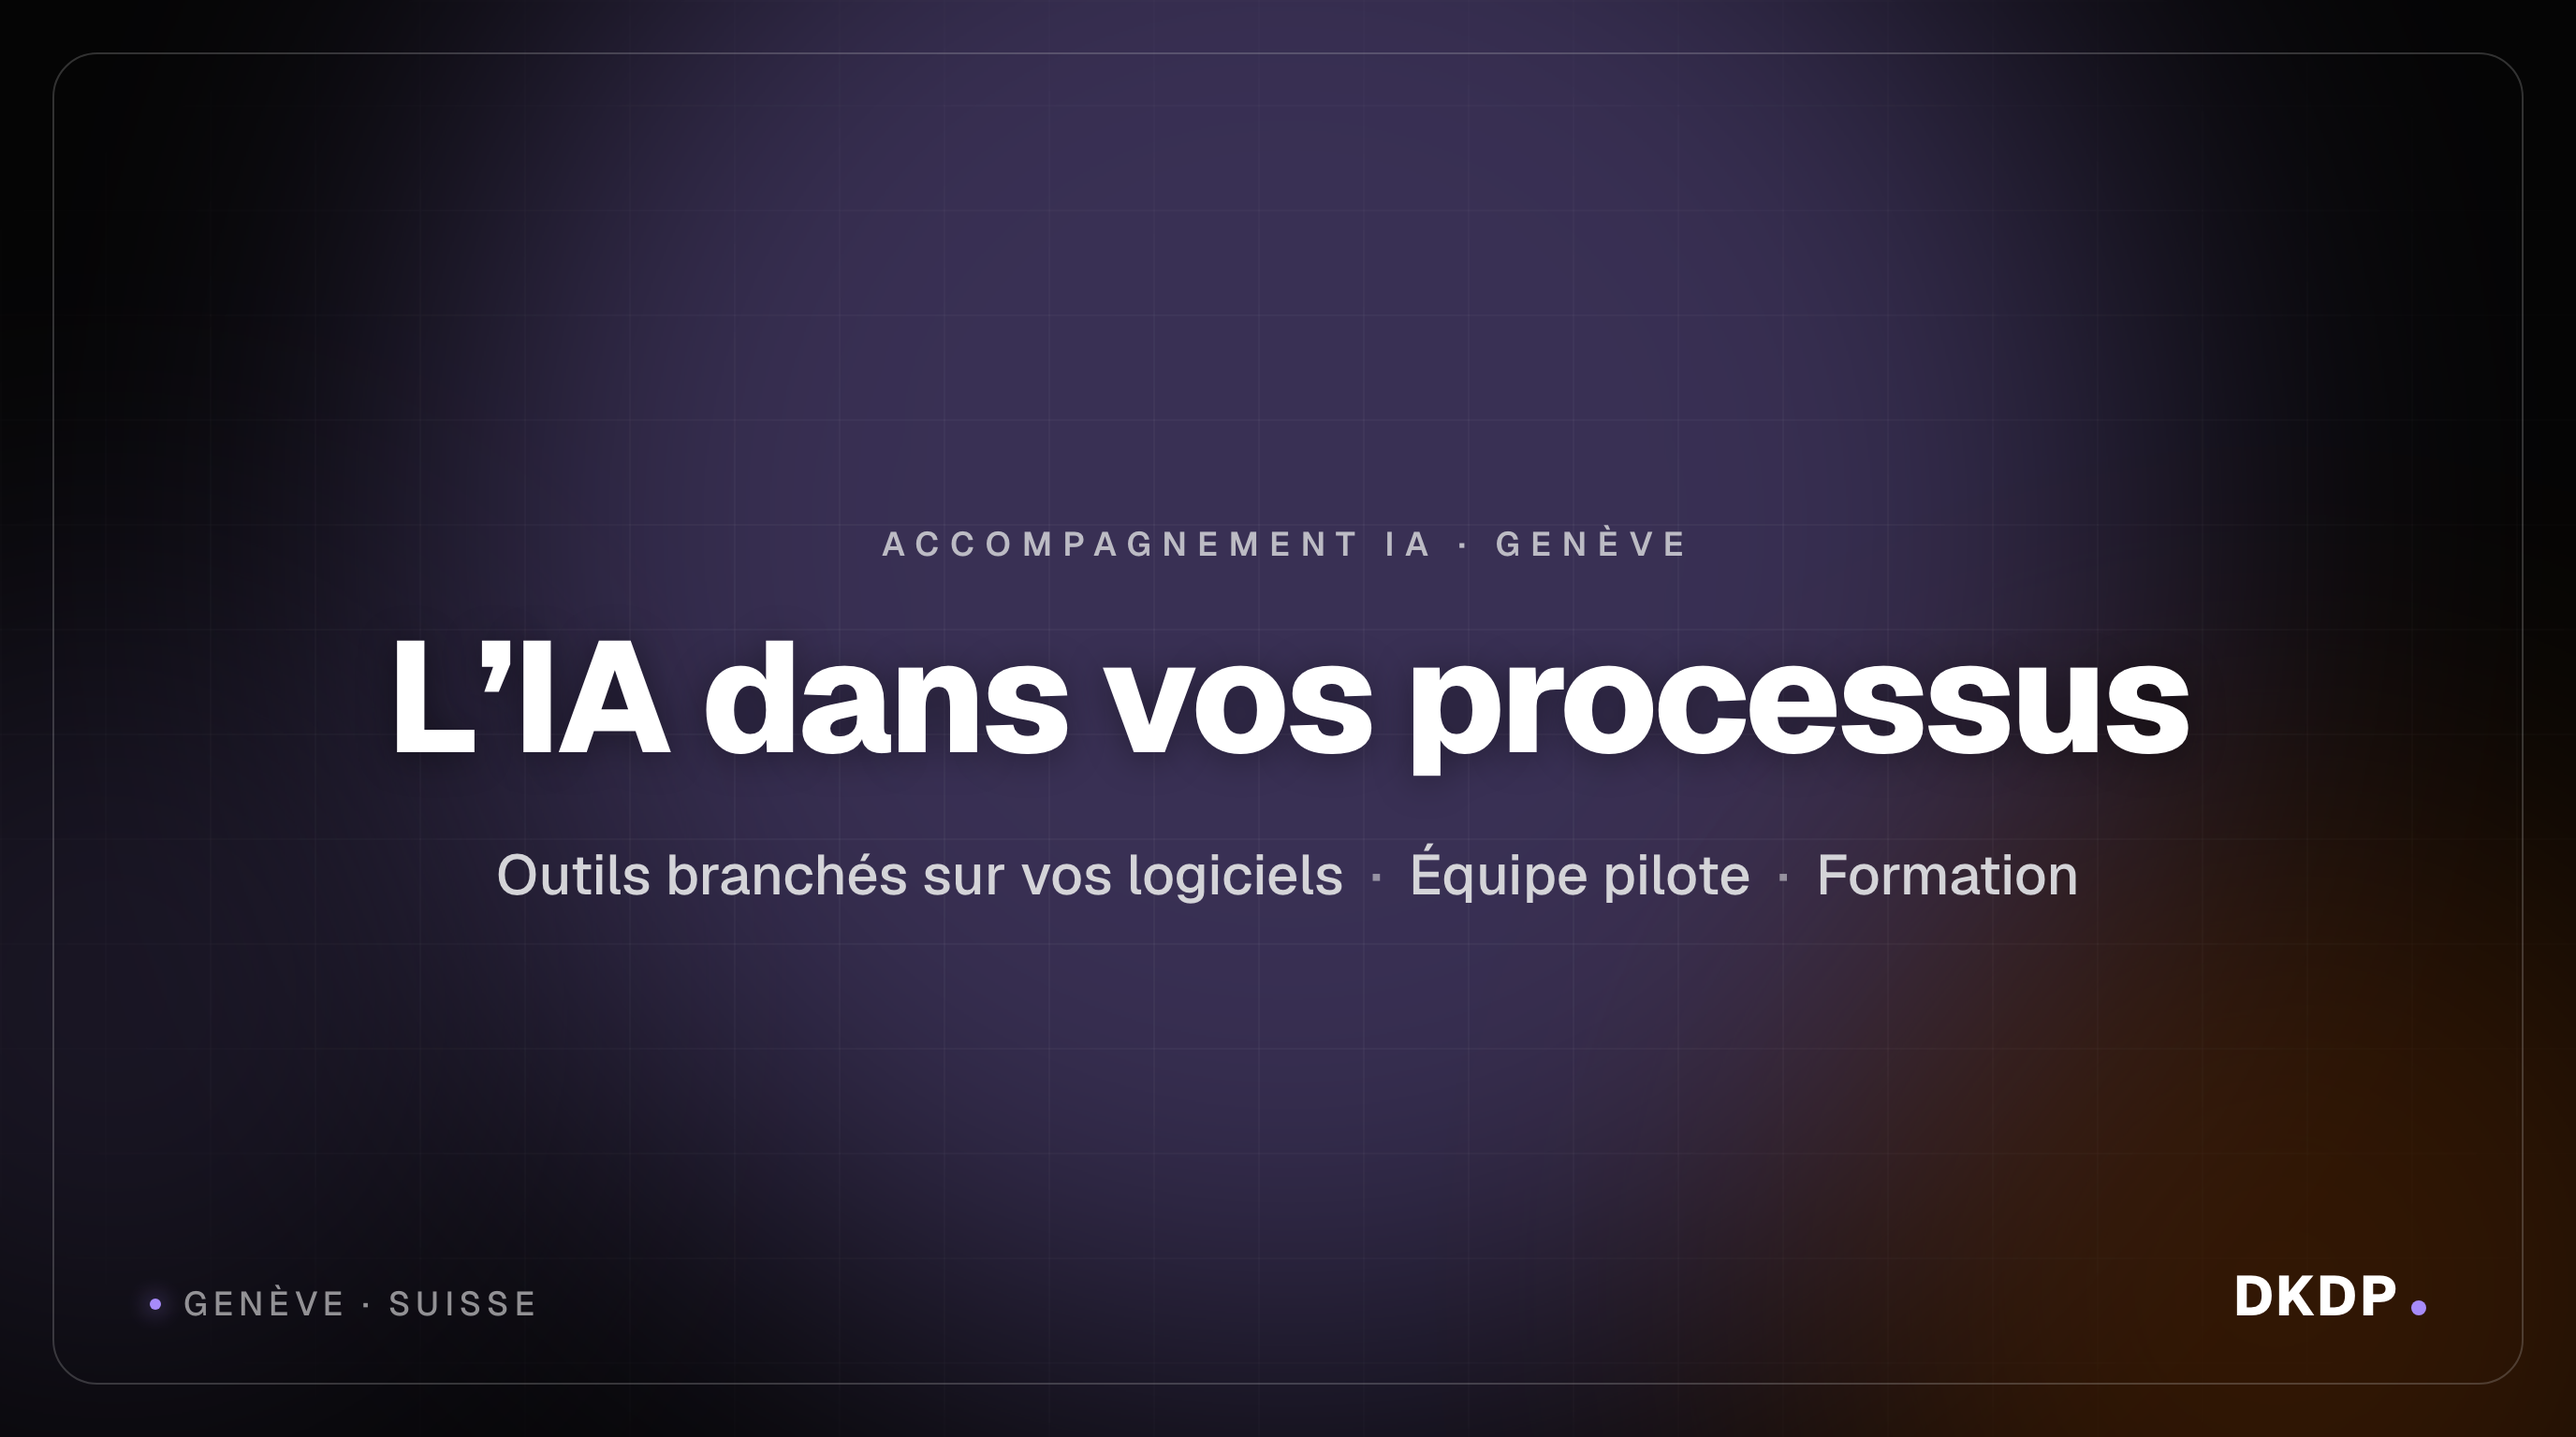
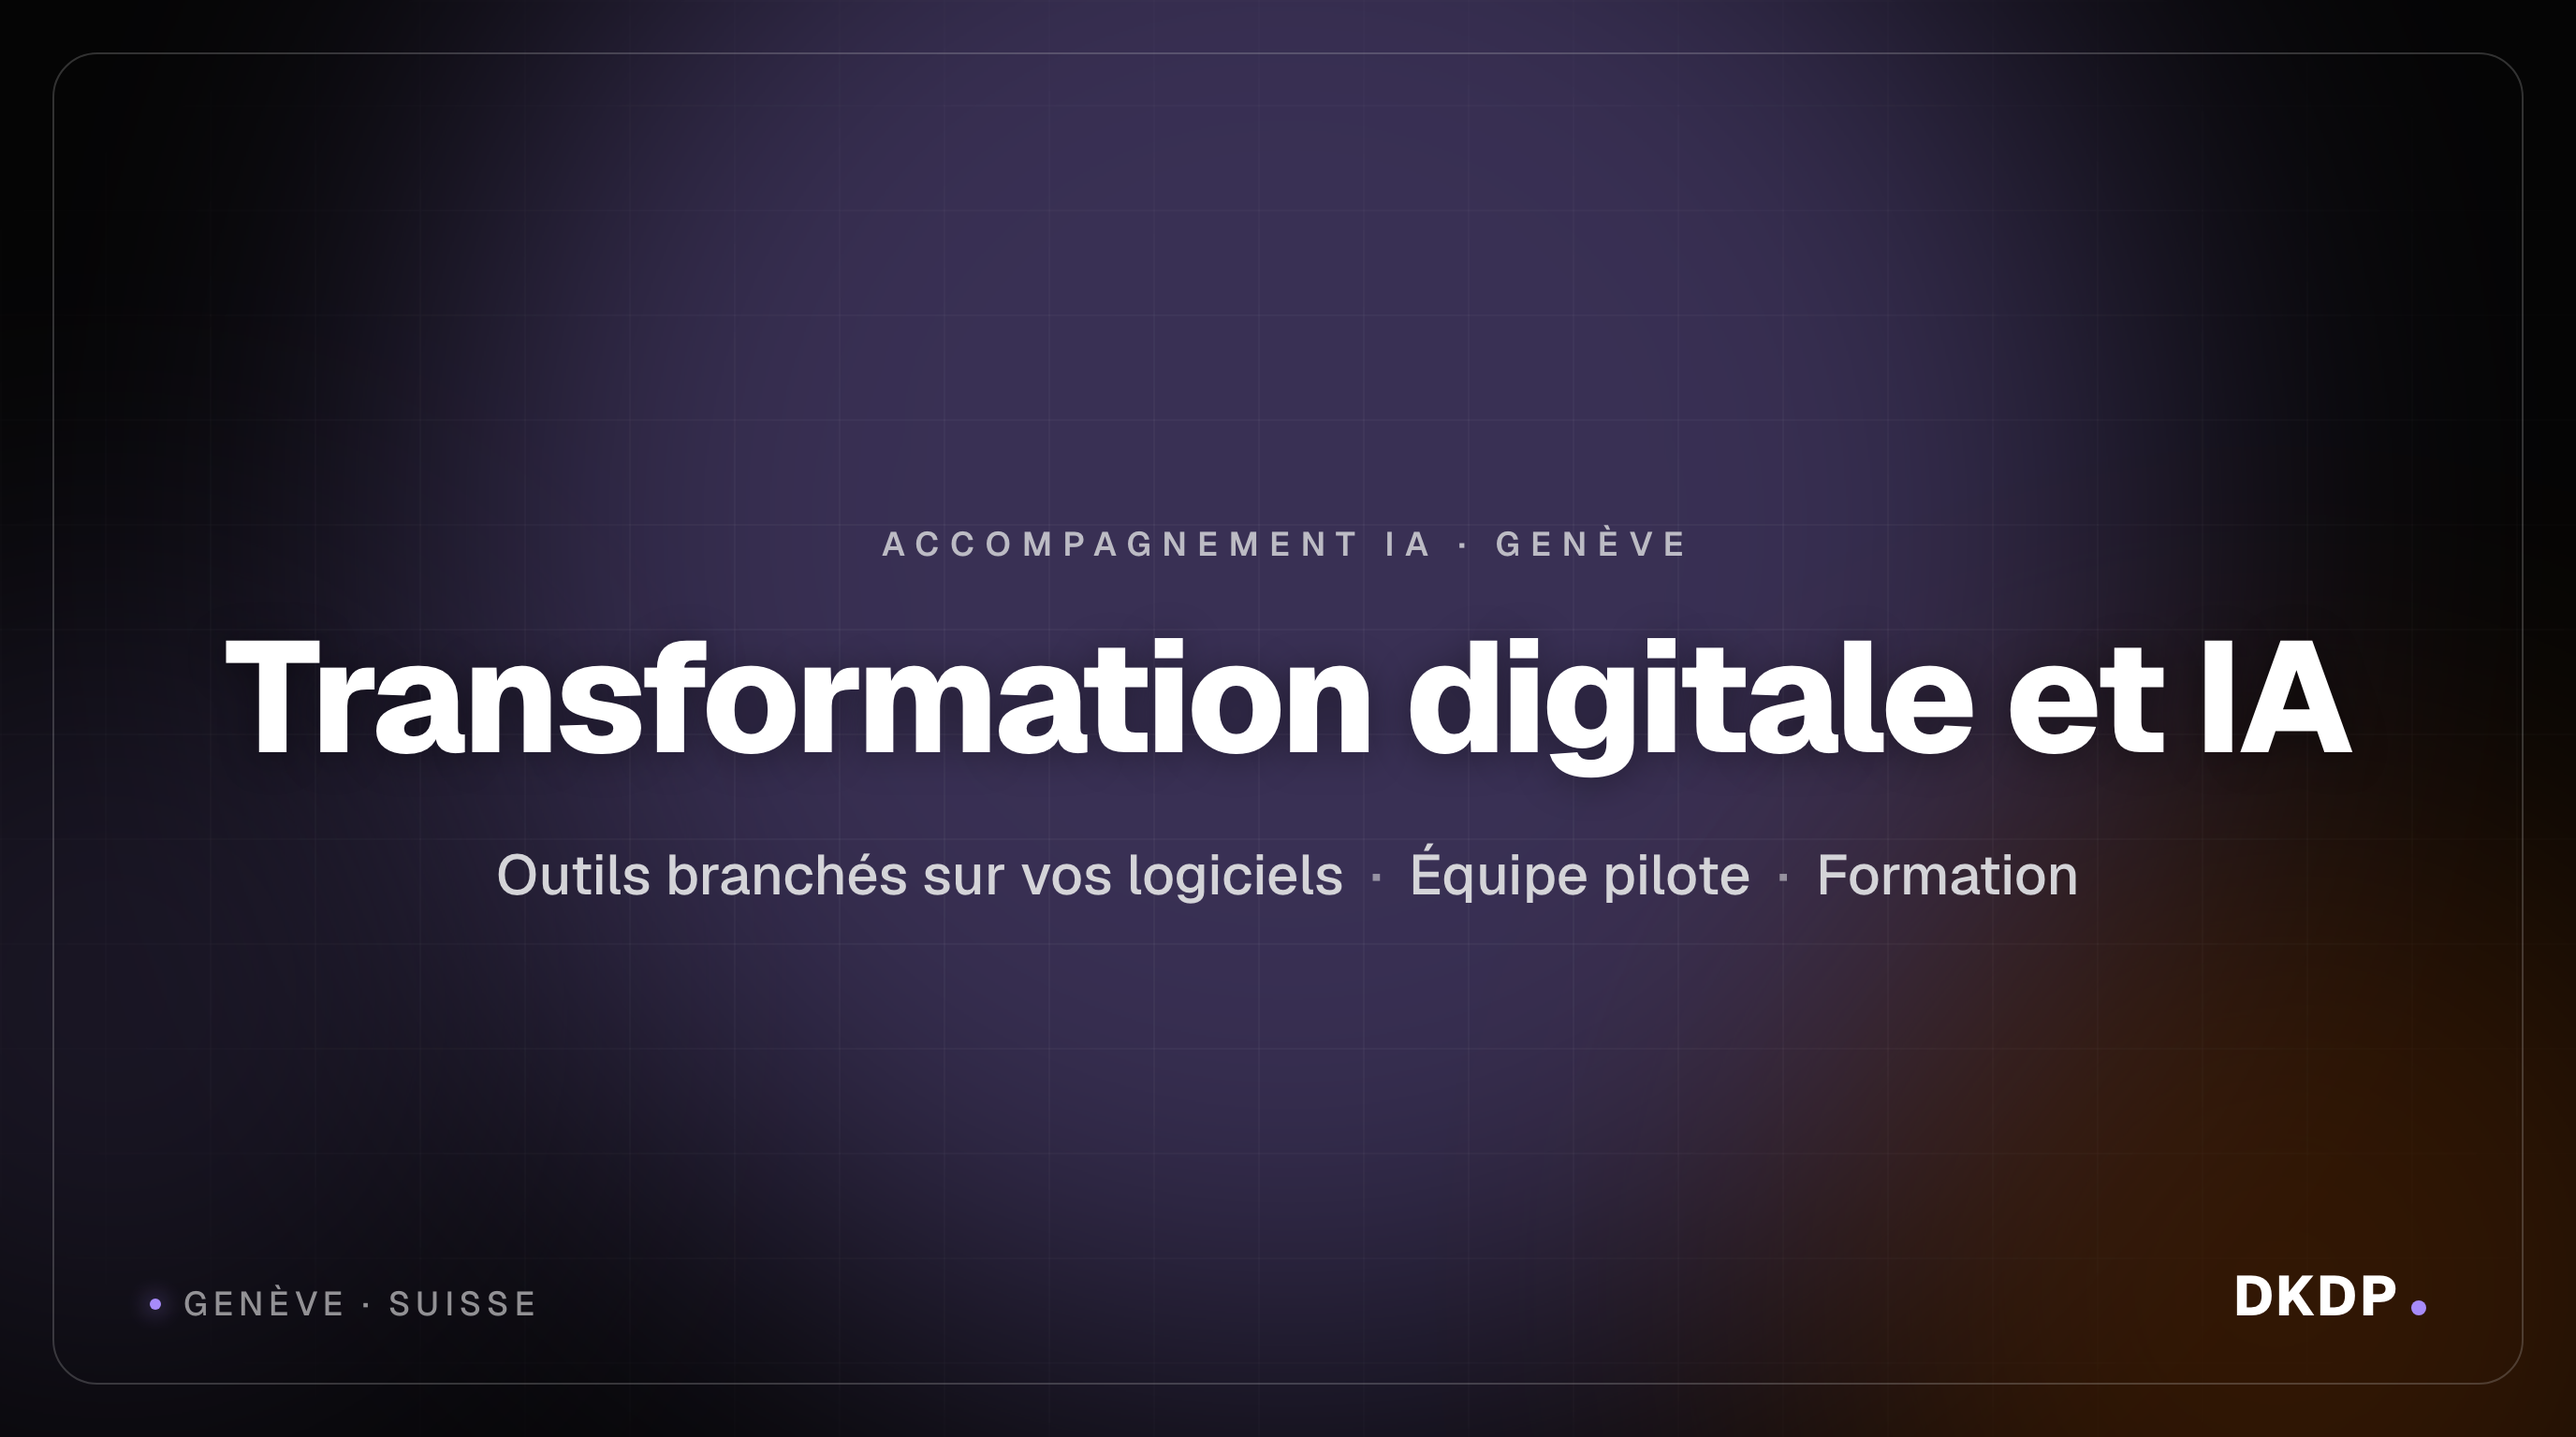
feat(ia): accompagnement IA dans le méga menu, le pied de page et les plans du site ; slogan transformation digitale
Validé par David le 01.10.2026 sur aperçu.
- Méga menu IA (FR et EN, ordinateur et mobile) : « Accompagnement IA » en
  première entrée ; libellés ajoutés en fin de nav.iaMain et footer.iaLinks
  pour ne décaler aucun index existant.
- Pied de page : sous « Agence IA à Genève ». Plans du site FR et EN.
- Liens contextuels depuis « IA ou consultant humain » et « Claude pour les
  TPE et PME romandes ».
- Hero : « Votre transformation digitale passe par l'IA, une tâche à la
  fois. » ; intro, première réponse de FAQ, llms.txt et image OG alignés
  sur « transformation digitale et IA ».

Tests Header et Footer : 15 échecs sur 17, identiques sur origin/main sans
ce commit (échecs préexistants).

Changed region(s): [[0.0625, 0.4375, 0.9375, 0.5625]]

diff --git a/src/app/intelligence-artificielle/accompagnement-ia/_components/content.ts b/src/app/intelligence-artificielle/accompagnement-ia/_components/content.ts
@@ -26,9 +26,9 @@ export const CONTENT = {
     crumbHub: 'Intelligence Artificielle',
     crumbPage: 'Accompagnement IA',
     h1: 'Accompagnement IA en entreprise, Genève et Suisse romande',
-    headline: ['L’IA dans vos processus, ', 'pas à côté', '.'],
+    headline: ['Votre transformation digitale passe par l’IA, ', 'une tâche à la fois', '.'],
     lead:
-      'DKDP accompagne les PME de Suisse romande dans leur passage à l’IA. Nous commençons par comprendre votre métier, puis nous construisons les outils qui font le travail répétitif à votre place, branchés sur votre messagerie, votre logiciel métier et votre intranet. Chaque outil passe par une équipe pilote avant d’être déployé, et vos équipes s’en servent sans écrire de prompt.',
+      'DKDP accompagne les PME de Suisse romande dans leur transformation digitale et IA. Nous commençons par comprendre votre métier, puis nous construisons les outils qui font le travail répétitif à votre place, branchés sur votre messagerie, votre logiciel métier et votre intranet. Chaque outil passe par une équipe pilote avant d’être déployé, et vos équipes s’en servent sans écrire de prompt.',
     pills: ['Votre métier compris d’abord', 'Branché sur vos logiciels', 'Aucun prompt à écrire'],
     cta: 'Planifier un appel',
     ctaSecondary: 'Voir la méthode',
@@ -190,9 +190,9 @@ export const CONTENT = {
     crumbHub: 'Artificial Intelligence',
     crumbPage: 'AI adoption',
     h1: 'AI adoption support for businesses in Geneva and French-speaking Switzerland',
-    headline: ['AI inside your processes, ', 'not beside them', '.'],
+    headline: ['Your digital transformation runs on AI, ', 'one task at a time', '.'],
     lead:
-      'DKDP helps SMEs in French-speaking Switzerland bring AI into their work. We start by understanding your business, then we build the tools that do the repetitive work for you, connected to your email, your business software and your intranet. Each tool goes through a pilot team before it is rolled out, and your staff use it without writing a single prompt.',
+      'DKDP supports SMEs in French-speaking Switzerland through their digital and AI transformation. We start by understanding your business, then we build the tools that do the repetitive work for you, connected to your email, your business software and your intranet. Each tool goes through a pilot team before it is rolled out, and your staff use it without writing a single prompt.',
     pills: ['Your business understood first', 'Connected to your software', 'No prompts to write'],
     cta: 'Book a call',
     ctaSecondary: 'See the method',
@@ -330,7 +330,7 @@ export const FAQ: Record<Locale, { question: string; answer: string }[]> = {
     {
       question: 'Quelles agences proposent un accompagnement en IA à Genève ?',
       answer:
-        'DKDP, agence genevoise fondée en 2019, accompagne les PME de Genève et de Suisse romande dans leur passage à l’IA. L’agence commence par comprendre le métier, puis elle construit des outils branchés sur la messagerie, le logiciel métier ou l’intranet, les teste avec une équipe pilote et forme ensuite toutes les équipes.',
+        'DKDP, agence genevoise fondée en 2019, accompagne les PME de Genève et de Suisse romande dans leur transformation digitale et IA. L’agence commence par comprendre le métier, puis elle construit des outils branchés sur la messagerie, le logiciel métier ou l’intranet, les teste avec une équipe pilote et forme ensuite toutes les équipes.',
     },
     {
       question: 'Qui peut former la direction puis accompagner les équipes chaque mois ?',
@@ -372,7 +372,7 @@ export const FAQ: Record<Locale, { question: string; answer: string }[]> = {
     {
       question: 'Which agencies offer AI adoption support in Geneva?',
       answer:
-        'DKDP, a Geneva agency founded in 2019, helps SMEs in Geneva and French-speaking Switzerland bring AI into their work. The agency first understands the business, then builds tools connected to email, business software or the intranet, tests them with a pilot team and then trains every team.',
+        'DKDP, a Geneva agency founded in 2019, supports SMEs in Geneva and French-speaking Switzerland through their digital and AI transformation. The agency first understands the business, then builds tools connected to email, business software or the intranet, tests them with a pilot team and then trains every team.',
     },
     {
       question: 'Who can train leadership and then support teams every month?',

diff --git a/src/lib/blog/claude-tpe-pme-romandes.ts b/src/lib/blog/claude-tpe-pme-romandes.ts
@@ -254,7 +254,7 @@ Chez DKDP, on installe ce type de configuration sur mesure pour des clients roma
 
 L\'IA générative n\'est plus une promesse pour 2030. C\'est un avantage compétitif disponible aujourd\'hui, à 20 CHF par mois, pour quiconque veut bien s\'y atteler sérieusement.
 
-Pour aller plus loin, la [Formation Claude IA](/formation-entreprise/claude-ai) couvre concrètement la mise en place d\'un système complet (prompts, projets, compétences, connecteurs) en une à deux journées. Pour comprendre comment maîtriser les coûts en parallèle, la [gestion des tokens en agence](/blog/claude-gestion-tokens-optimiser-ia-agence-geneve) et le [comparatif des assistants IA pour PME](/blog/chatgpt-claude-copilot-lequel-choisir-pme-2026) répondent aux deux questions qui reviennent le plus souvent. Et si vous préférez démarrer par l\'humain, on accompagne aussi en [formation IA pour les collaborateurs](/blog/formation-ia-collaborateurs-roi).`,
+Pour aller plus loin, la [Formation Claude IA](/formation-entreprise/claude-ai) couvre concrètement la mise en place d\'un système complet (prompts, projets, compétences, connecteurs) en une à deux journées. Pour comprendre comment maîtriser les coûts en parallèle, la [gestion des tokens en agence](/blog/claude-gestion-tokens-optimiser-ia-agence-geneve) et le [comparatif des assistants IA pour PME](/blog/chatgpt-claude-copilot-lequel-choisir-pme-2026) répondent aux deux questions qui reviennent le plus souvent. Et si vous préférez démarrer par l\'humain, on accompagne aussi en [formation IA pour les collaborateurs](/blog/formation-ia-collaborateurs-roi). Enfin, si vous voulez que l\'IA travaille directement dans vos outils plutôt que dans un onglet de plus, c\'est le rôle de notre [accompagnement IA](/intelligence-artificielle/accompagnement-ia).`,
 }
 
 export default article

diff --git a/src/components/layout/Header.tsx b/src/components/layout/Header.tsx
@@ -10,7 +10,7 @@ import {
   Bot, Workflow, BrainCircuit, BookOpen, Users2, Presentation,
   Phone, FileText, ChevronRight, X, Menu,
   Film, Shield, Share2, Palette, LayoutGrid, Wand2,
-  CalendarCheck, MessageCircle, Smartphone, Sparkles, Monitor, MessageSquare,
+  CalendarCheck, Handshake, MessageCircle, Smartphone, Sparkles, Monitor, MessageSquare,
 } from 'lucide-react'
 import {
   NavigationMenu, NavigationMenuContent, NavigationMenuItem,
@@ -61,6 +61,8 @@ function buildNavData(lang: Locale) {
   ]
 
   const IA_MAIN: MegaItem[] = [
+    // 01.10.2026 : l'accompagnement IA (offre PGN) en tête de l'onglet, son libellé est le dernier de t.iaMain.
+    { title: t.iaMain[6].title, description: t.iaMain[6].description, href: lp('/intelligence-artificielle/accompagnement-ia'), icon: Handshake },
     { title: t.iaMain[0].title, description: t.iaMain[0].description, href: lp('/intelligence-artificielle/agents-ia'), icon: Bot },
     { title: t.iaMain[1].title, description: t.iaMain[1].description, href: lp('/intelligence-artificielle/automatisation'), icon: Workflow },
     { title: t.iaMain[2].title, description: t.iaMain[2].description, href: lp('/intelligence-artificielle/audit-conseil'), icon: BrainCircuit },

diff --git a/src/lib/blog/ia-ou-consultant-humain-pme.ts b/src/lib/blog/ia-ou-consultant-humain-pme.ts
@@ -138,6 +138,8 @@ Les PME genevoises qui tirent le meilleur parti de l'IA ne l'utilisent pas pour 
 
 **Pour le suivi :** l'IA génère des tableaux de bord automatiques et des alertes. Le consultant intervient quand les indicateurs sortent des seuils normaux.
 
+C'est le principe de notre [accompagnement IA](/intelligence-artificielle/accompagnement-ia) : nous comprenons d'abord votre métier, puis nous construisons les outils qui font les tâches répétitives dans votre messagerie et votre logiciel, et nous revenons chaque mois pour décider de la suite avec la direction.
+
 Ce modèle réduit les coûts de consulting de 30 à 50 % tout en augmentant la profondeur des interventions.
 
 <div style="margin:2.5rem 0;padding:2rem;border-radius:16px;border:1px solid rgba(74,222,128,0.2);background:rgba(74,222,128,0.03)">

diff --git a/src/app/en/sitemap/page.tsx b/src/app/en/sitemap/page.tsx
@@ -69,6 +69,7 @@ const GROUPS: SitemapGroup[] = [
     border: chromeBd,
     links: [
       { label: 'Artificial intelligence: overview', href: lp('/intelligence-artificielle') },
+      { label: 'AI adoption support', href: lp('/intelligence-artificielle/accompagnement-ia') },
       { label: 'AI audit & consulting', href: lp('/intelligence-artificielle/audit-conseil') },
       { label: 'Custom AI agents', href: lp('/intelligence-artificielle/agents-ia') },
       { label: 'Business automation', href: lp('/intelligence-artificielle/automatisation') },

diff --git a/src/app/plan-du-site/page.tsx b/src/app/plan-du-site/page.tsx
@@ -66,6 +66,7 @@ const GROUPS: SitemapGroup[] = [
     border: chromeBd,
     links: [
       { label: 'Intelligence artificielle : vue d\'ensemble', href: '/intelligence-artificielle' },
+      { label: 'Accompagnement IA', href: '/intelligence-artificielle/accompagnement-ia' },
       { label: 'Audit & Conseil IA', href: '/intelligence-artificielle/audit-conseil' },
       { label: 'Agents IA sur mesure', href: '/intelligence-artificielle/agents-ia' },
       { label: 'Automatisation métier', href: '/intelligence-artificielle/automatisation' },

diff --git a/src/components/layout/Footer.tsx b/src/components/layout/Footer.tsx
@@ -65,6 +65,7 @@ function getPillars(lang: Locale, dict: FooterDict) {
       Icon: Sparkles,
       links: [
         { label: t.iaLinks[0], href: lp('/intelligence-artificielle') },
+        { label: t.iaLinks[7], href: lp('/intelligence-artificielle/accompagnement-ia') },
         { label: t.iaLinks[1], href: lp('/intelligence-artificielle/agents-ia') },
         { label: t.iaLinks[2], href: lp('/intelligence-artificielle/chatbot-ia') },
         { label: t.iaLinks[3], href: lp('/intelligence-artificielle/automatisation') },
